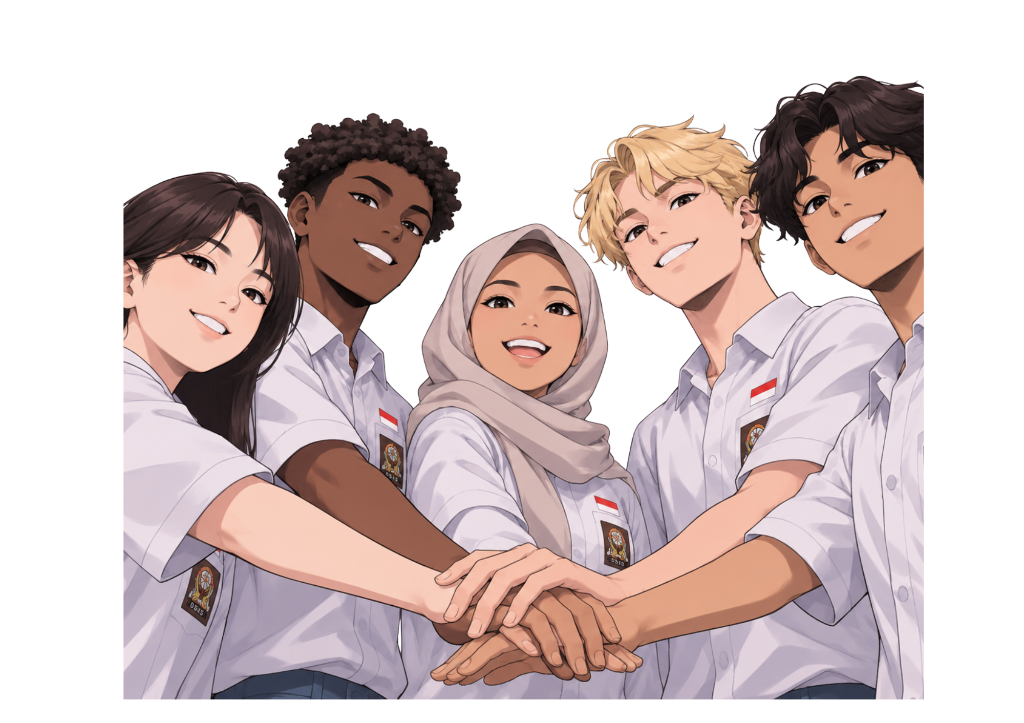
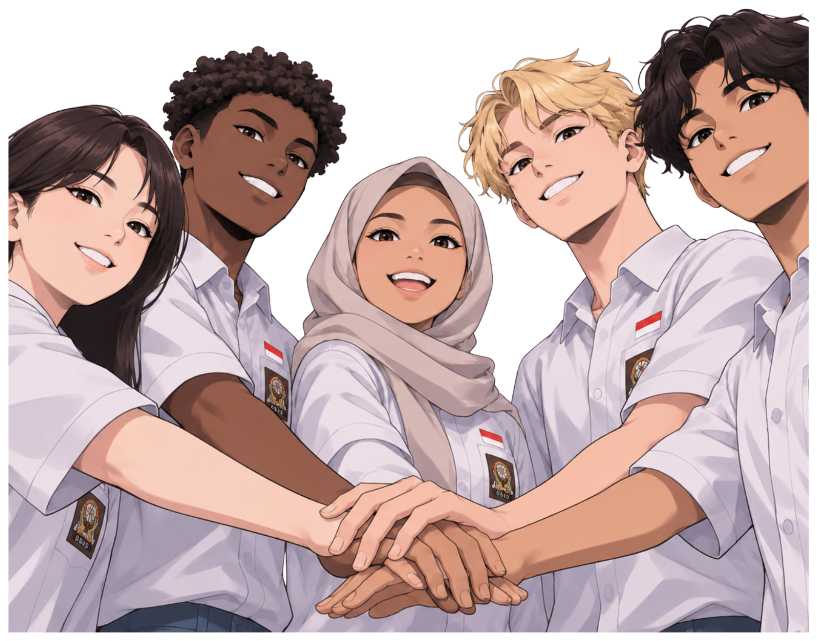
update: revisi project

diff --git a/src/components/HeroSection.jsx b/src/components/HeroSection.jsx
@@ -1,6 +1,6 @@
 import React from 'react';
 import { motion } from 'framer-motion';
-import { Sparkles, ArrowDown, Users, BookOpen, ShieldCheck, HeartHandshake } from 'lucide-react';
+import { Sparkles, ArrowDown, Users, BookOpen, HeartHandshake } from 'lucide-react';
 import ImagePlaceholder from './ImagePlaceholder';
 
 export default function HeroSection() {
@@ -15,7 +15,7 @@ export default function HeroSection() {
       <div className="absolute bottom-4 left-6 w-80 h-80 rounded-full bg-amber-100/70 blur-2xl pointer-events-none -z-10" />
 
       <div className="max-w-7xl mx-auto px-4 sm:px-6 lg:px-8 w-full">
-        <div className="grid grid-cols-1 lg:grid-cols-12 gap-12 lg:gap-8 items-center">
+        <div className="grid grid-cols-1 lg:grid-cols-12 gap-10 lg:gap-8 items-center">
           
           {/* Left Column: Heading and Presentation Pitch */}
           <div className="lg:col-span-7 text-left space-y-6">
@@ -95,46 +95,49 @@ export default function HeroSection() {
           </div>
 
           {/* Right Column: Hero Visual Artwork / Poster Representation */}
-          <div className="lg:col-span-5 relative flex justify-center">
+          <div className="lg:col-span-5 relative flex justify-center w-full">
             
             {/* Visual Frame styled like physical scrapbook / cutout artwork */}
-            <div className="relative w-full max-w-md bg-white border-2 border-amber-300 rounded-3xl p-4 sm:p-5 shadow-[6px_6px_0px_#F59E0B] transition-transform">
+            <div className="relative w-full max-w-md bg-white border-2 border-amber-300 rounded-3xl p-3 sm:p-5 shadow-[6px_6px_0px_#F59E0B] transition-transform">
               
-        
+              
 
-              {/* Main Artwork Image - 5 Students Hands Stacked */}
-              <div className="relative rounded-2xl overflow-hidden border border-amber-200 bg-amber-50/50">
+              {/* Main Artwork Image - 5 Students Hands Stacked (Fully Visible on All Screen Sizes) */}
+              <div className="rounded-2xl border border-amber-200 bg-[#FFFDF9] p-2 flex flex-col items-center justify-center">
                 <ImagePlaceholder
                   src="/images/students-upright.png"
-                  alt="Ilustrasi Siswa SMA Merajut Keberagaman"
-                  aspectRatio="aspect-4/3 sm:aspect-square"
+                  alt="Ilustrasi Lima Siswa SMA Bersatu dan Menangkupkan Tangan"
+                  aspectRatio="aspect-auto"
+                  objectFit="object-contain"
+                  imgClassName="w-full h-auto max-h-[360px] sm:max-h-[460px] object-contain object-bottom block"
                   placeholderTitle="Ilustrasi Siswa Merajut Keberagaman"
                   fileNameHint="public/images/students-upright.png"
                   badgeText="Gambar Utama Hero"
-                  className="border-none bg-transparent"
+                  className="w-full border-none bg-transparent"
                 />
-
-                {/* Floating caption at bottom of artwork */}
-                <div className="absolute bottom-2 inset-x-2 bg-white/90 backdrop-blur-xs rounded-xl p-2.5 border border-amber-200 text-center shadow-xs">
-                  <p className="text-xs font-bold text-neutral-900">
-                    "Tangan yang bertumpuk melambangkan solidaritas bersama"
-                  </p>
-                  <p className="text-[11px] text-neutral-600">
-                    Mewujudkan sekolah ramah, inklusif, dan bebas diskriminasi
-                  </p>
-                </div>
               </div>
 
-              {/* Extra Mini Callout Box */}
-              <div className="mt-4 flex items-center justify-between px-3 py-2 bg-amber-50 rounded-xl border border-amber-200">
+              {/* Caption Box Placed Cleanly Below Artwork (Does NOT block hands) */}
+              <div className="mt-3 p-3 bg-amber-50/90 rounded-2xl border border-amber-200 text-center shadow-2xs">
+                <p className="text-xs sm:text-sm font-extrabold text-neutral-900 leading-tight">
+                  "Tangan yang bertumpuk melambangkan solidaritas bersama"
+                </p>
+                <p className="text-[11px] text-neutral-600 mt-1 leading-normal">
+                  Persatuan dan kesetaraan bagi seluruh anak bangsa tanpa memandang perbedaan.
+                </p>
+              </div>
+
+              {/* Extra Mini Target Audience Badge */}
+              <div className="mt-3 flex items-center justify-between px-3 py-2 bg-[#FAF8F5] rounded-xl border border-amber-200/80">
                 <div className="flex items-center gap-2">
                   <BookOpen className="w-4 h-4 text-amber-700" />
-                  <span className="text-xs font-bold text-amber-950">Target Sosialisasi:</span>
+                  <span className="text-xs font-bold text-neutral-800">Target Sosialisasi:</span>
                 </div>
-                <span className="text-xs font-semibold text-amber-800 bg-amber-200/60 px-2 py-0.5 rounded-md">
+                <span className="text-xs font-semibold text-amber-900 bg-amber-200/70 px-2.5 py-0.5 rounded-md">
                   Pelajar Generasi Z / SMA
                 </span>
               </div>
+
             </div>
 
           </div>

diff --git a/src/components/ImagePlaceholder.jsx b/src/components/ImagePlaceholder.jsx
@@ -14,7 +14,9 @@ export default function ImagePlaceholder({
   aspectRatio = 'aspect-video',
   placeholderTitle = 'Placeholder Gambar',
   fileNameHint = 'public/images/nama-file.jpg',
-  badgeText = 'Ganti Gambar'
+  badgeText = 'Ganti Gambar',
+  objectFit = 'object-cover',
+  imgClassName = '',
 }) {
   const [hasError, setHasError] = useState(false);
   const [isLoaded, setIsLoaded] = useState(false);
@@ -32,7 +34,7 @@ export default function ImagePlaceholder({
             alt={alt}
             onError={() => setHasError(true)}
             onLoad={() => setIsLoaded(true)}
-            className={`h-full w-full object-cover transition-opacity duration-500 ${
+            className={`w-full transition-opacity duration-500 ${objectFit} ${imgClassName} ${
               isLoaded ? 'opacity-100' : 'opacity-0'
             }`}
           />
@@ -42,7 +44,7 @@ export default function ImagePlaceholder({
           </div>
         </>
       ) : (
-        <div className="flex h-full w-full flex-col items-center justify-center p-4 text-center">
+        <div className="flex h-full min-h-[160px] w-full flex-col items-center justify-center p-4 text-center">
           <div className="mb-2.5 flex h-12 w-12 items-center justify-center rounded-xl bg-amber-100 text-amber-700 shadow-xs">
             <ImageIcon className="h-6 w-6" />
           </div>
